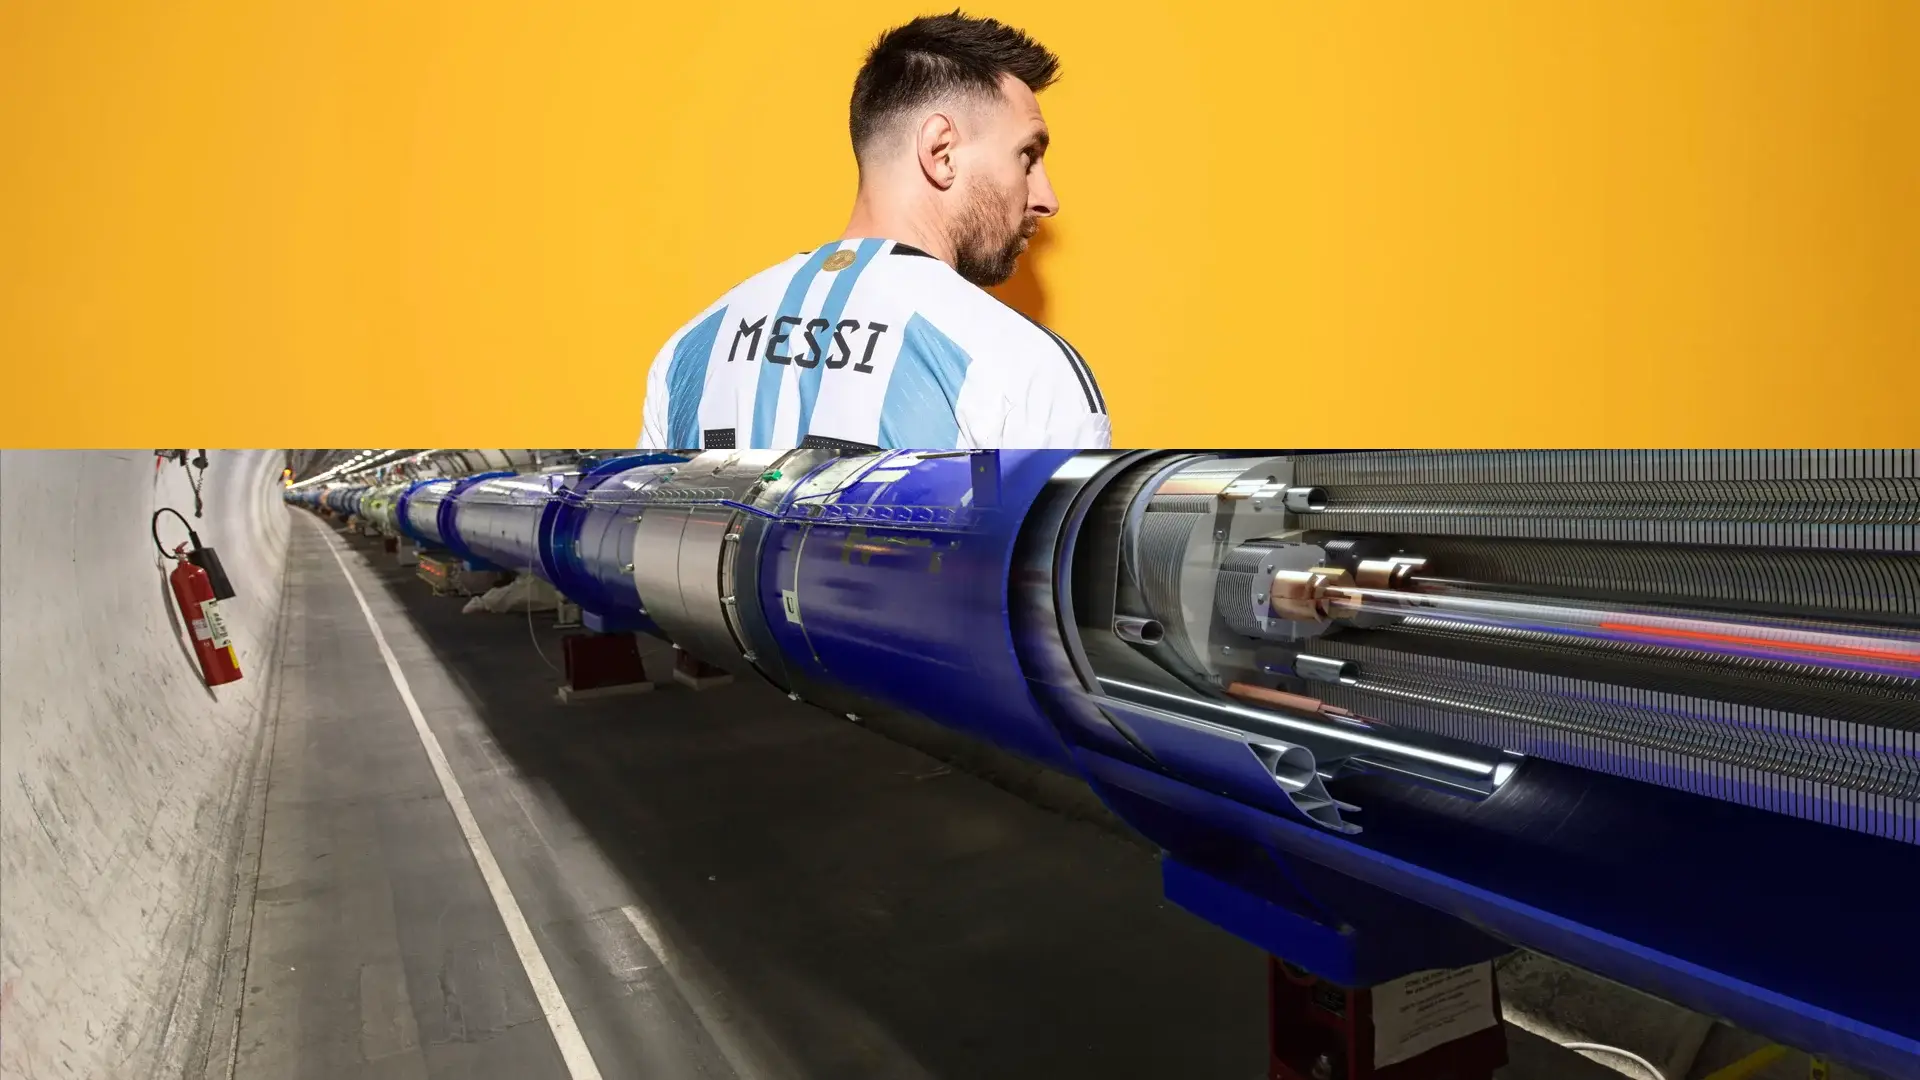
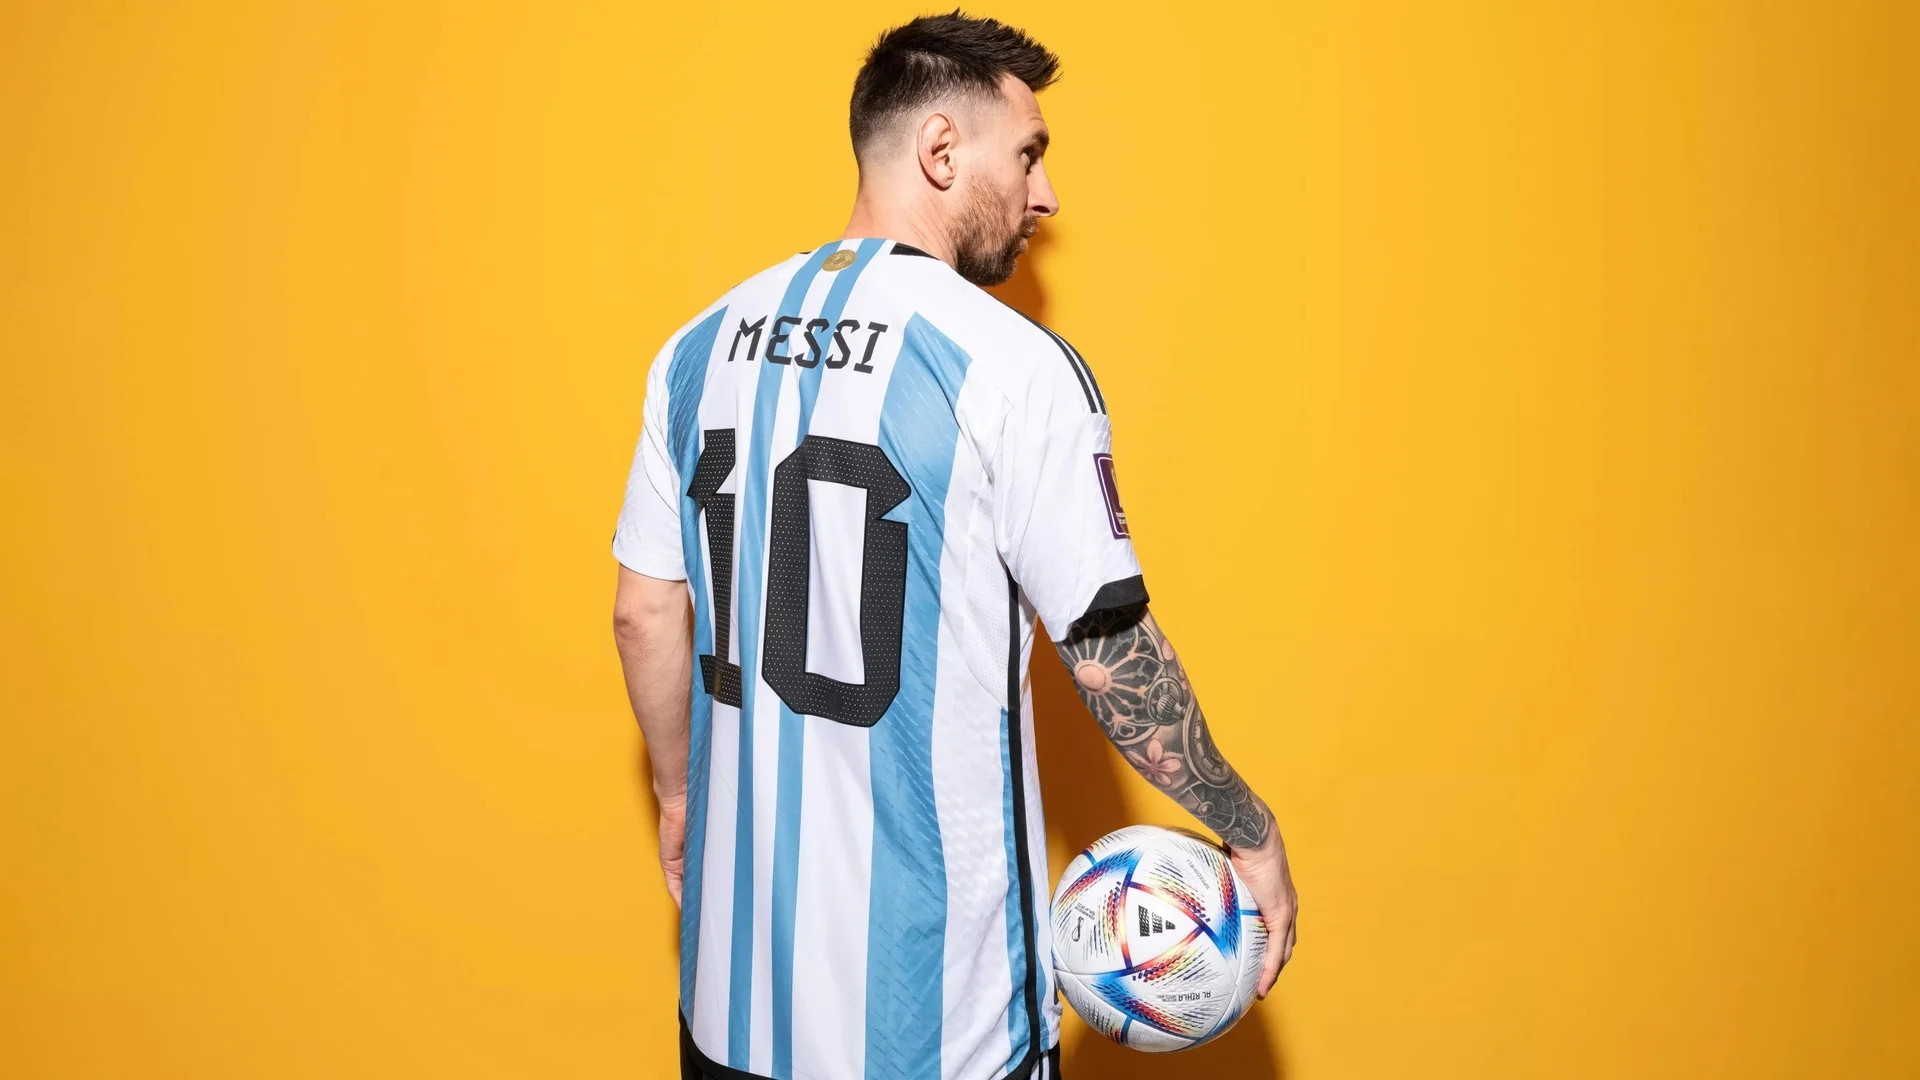
Intent de canviar el fons

diff --git a/index.html b/index.html
@@ -7,6 +7,7 @@
     <link rel="stylesheet" type="text/css" href="css/styles.css">
   </head>
   <body>
+    <div class="messi" id="messi"></div>
     <div class="formulari">
         <form method="post">
             <div class="mb-3">
@@ -17,17 +18,24 @@
             <div class="mb-3">
                 <label class="form-label">Sobre que vols fer el qüestionari?</label>
                 <div class="form-control inputs">
-                    <label><input type="radio" class="form-check-input" name="radio">Fútbol</label>
+                    <label><input type="radio" class="form-check-input" name="radio" id="futbol">Fútbol</label>
                 </div>
                 <br>
                 <div class="form-control inputs">
-                    <label><input type="radio" class="form-check-input" name="radio">CERN</label>
+                    <label><input type="radio" class="form-check-input" name="radio" id="cern">CERN</label>
                 </div>
             </div>
             <br>
             <button type="submit" class="btn btn-primary anarhi">Anar-hi</button>
             </form>
     </div>
+    <script>
+        document.getElementById('futbol').addEventListener('focus', function() {
+          let messi = document.getElementsById('messi')
+
+          messi.classList.add('opacidad')
+        })
+    </script>
     <script src="https://cdn.jsdelivr.net/npm/bootstrap@5.2.3/dist/js/bootstrap.bundle.min.js" integrity="sha384-kenU1KFdBIe4zVF0s0G1M5b4hcpxyD9F7jL+jjXkk+Q2h455rYXK/7HAuoJl+0I4" crossorigin="anonymous"></script>
   </body>
 </html>

diff --git a/css/styles.css b/css/styles.css
@@ -1,15 +1,23 @@
 body {
-    background-image: url(../images/conjunto.webp);
+    background-image: url(../images/cern.webp);
     background-size: cover;
+}
+.messi {
+    background-image: url(../images/messi.webp);
+    height: 50vh;
+    background-size: cover;
+}
+.opacidad {
+    opacity: 0%;
 }
 .formulari {
     margin: auto;
     width: 20%;
-    margin-top: 18vh;
+    margin-top: -30vh;
     border: 2px solid black;
     padding: 20px;
     background-color: aliceblue;
-    border-radius: 15px;
+    border-radius: 15px; 
 }
 .inputs {
     padding-top: 10px;
